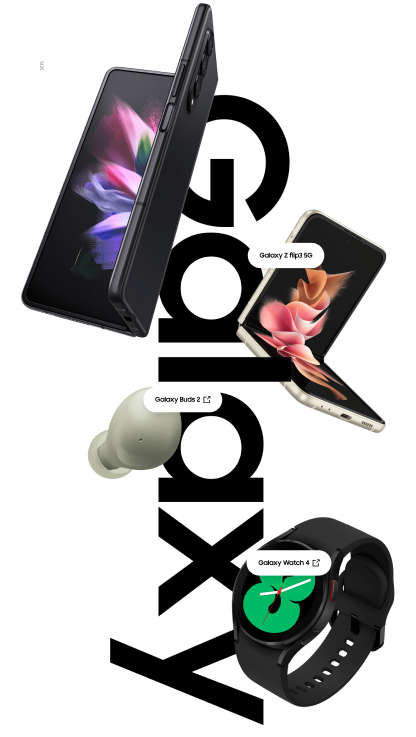
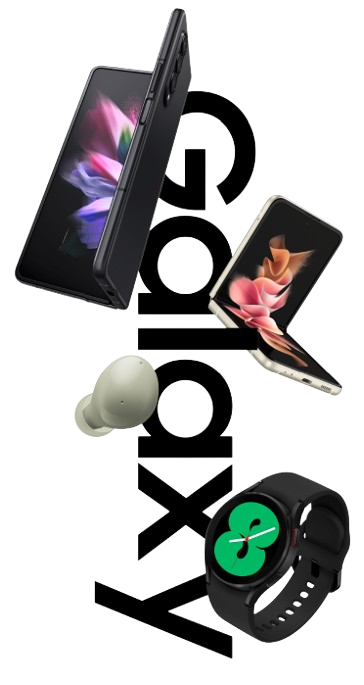
fin de la deuxieme version du projet, ajout de quelques effets grace a la fonction hover et terminer la revision initiale du code

diff --git a/index.html b/index.html
@@ -2,17 +2,17 @@
 <html lang="en">
 
 <head>
-  <meta charset="UTF-8" />
-  <meta name="viewport" content="width=device-width, initial-scale=1.0" />
+  <meta charset="UTF-8">
+  <meta name="viewport" content="width=device-width, initial-scale=1.0">
   <title>Document</title>
-  <link rel="stylesheet" href="assets/css/style.css" />
+  <link rel="stylesheet" href="assets/css/style.css">
 </head>
 <header>
   <div class="header">
-    <!-- <h1>SAMSUNG</h1> -->
+    <h1>SAMSUNG</h1>
     <section class="section-search">
-      <input class="search" type="text" placeholder="search..." />
-      <button class="button-search" type="submit">sabmit</button>
+      <input class="search" type="text" placeholder="search...">
+      <button class="button-search" type="submit">submit</button>
     </section>
   </div>
 </header>
@@ -23,7 +23,7 @@
       <a href="#home">home</a>
       <a href="#showroom">showroom</a>
       <a href="#about">about</a>
-      <a href="#contact-us">contact us</a>
+      <a href="#contact">contact us</a>
     </section>
   </div>
 
@@ -31,7 +31,7 @@
     <picture class="picture">
       <img class="img1" src="assets/images/img1.1.png" alt="Galaxy X Fond3 5G" />
       <h2 class="h2">galaxy Z Fond3 5G</h2>
-      
+
     </picture>
     <section>
       <p class="p-1">
@@ -41,24 +41,24 @@
         tactile extérieur Dynamic AMOLED 120 Hz 6.2" 904 x 2316 - 256 Go -
         Wi-Fi 6E - NFC/Bluetooth 5.2 - 4400 mAh - Android 13
       </p>
-      
 
-     
+
+
   </div>
   <section id="showroom">
     <p class="prix">7999 DH</p>
-     <div class="img2-2"><img src="assets/images/img2.2.png" alt="Galaxy Z Fond3 5G" class="img2"></div>
+    <div class="img2-2"><img src="assets/images/img2.2.png" alt="Galaxy Z Fond3 5G" class="img2"></div>
     <div class="showroom-page">
       <h2>showroom</h2>
     </div>
     <p class="p">Tant de savoir-faire réuni dans un seul appareil</p>
     <div class="img3-3">
-    
-    <img class="img3-1" src="assets/images/img3.1.png" alt="">
+      <img class="img3-1" src="assets/images/img3.1.png" alt="">
+      <img class="img3" src="assets/images/img3.png" alt="">
     </div>
     <p class="compact">Passez du compact à l'impact</p>
     <picture class="images">
-      <div class="text">
+      <div class="images-text">
         <img class="img4-1" src="assets/images/img4.1.png" alt="la casa">
 
 
@@ -87,31 +87,31 @@
     </div>
   </section>
 
-  <section class="gry">
-    <div class="line"></div>
+  <section class="about-bg">
+    <div class="div-about"></div>
     <h4 class="p1">processour</h4>
     <div>
-      <p class="pe">CPU Speed</p>
+      <p class="p-info">CPU Speed</p>
       <p class="p2">3.36GHz, 2.8GHz, 2GHz</p>
-      <p class="pe">CPU Type</p>
+      <p class="p-info">CPU type</p>
       <p class="p2">Octa-Core</p>
     </div>
     <div class="line"></div>
     <h4 class="p1">Storage/Memory</h4>
     <div>
-      <p class="pe">Memory_(GB) :</p>
+      <p class="p-info">Memory_(GB) :</p>
       <p class="p2">12</p>
-      <p class="pe">Available Storage (GB) :</p>
+      <p class="p-info">Available Storage (GB) :</p>
       <p class="p2">216.1</p>
     </div>
     <div class="line"></div>
     <h4 class="p1">Network/Bearer</h4>
     <div>
-      <p class="pe">Number of SIM :</p>
+      <p class="p-info">Number of SIM :</p>
       <p class="p2">Dual-SIM</p>
-      <p class="pe">4G TDD LTE :</p>
+      <p class="p-info">4G TDD LTE :</p>
       <p class="p2">B38(2600), B39(1900), B40(2300), B41(2500)</p>
-      <p class="pe">5G SDL Sub6 :</p>
+      <p class="p-info">5G SDL Sub6 :</p>
       <p class="p2">N75(1500+)</p>
     </div>
     <div class="line"></div>
@@ -121,6 +121,7 @@
       <img class="img7" src="assets/images/page7.png" alt="payment">
     </div>
     <div id="ACHETER" class="ACHETER">
+      <a href="#ACHETER">ACHETER</a>
       <label class="label" for="email">Email</label>
       <input id="email" class="email" type="email" placeholder="machie">
       <label class="label" for="card-info">Card information</label>
@@ -131,23 +132,24 @@
       <input id="name-card" class="name-card" type="text" placeholder="Name">
       <label class="label" for="country">Country or rigeon</label>
       <input type="text" class="country" name="" id="country">
-      <button type="submit"><a href="#ACHETER">ACHETER</a></button>
+      <button type="submit">ACHETER</button>
     </div>
   </section>
 </body>
 <footer id="contact">
-<div class="contact" >
-<h3>contact-Us</h3>
-</div>
-<div class="contact-bg">
-<label for="name-contact" class="name-contact" style="margin: 0;" >name</label>
-<input type="text" placeholder="name">
-<label for="email-contact" class="email-contact">email</label>
-<input type="email" placeholder="email">
-<label for="discr">description</label>
-<input type="text" placeholder="discription...">
-<button type="submit">submit</button>
-</div>
-<p class="copyright">Copyright© 1995-2020 Samsung. All right reserved.</p>
+  <div class="contact">
+    <h3>contact-Us</h3>
+  </div>
+  <div class="contact-bg">
+    <label for="name-contact" class="name-contact" style="margin: 0;">name</label>
+    <input type="text" placeholder="name">
+    <label for="email-contact" class="email-contact">email</label>
+    <input type="email" placeholder="email">
+    <label for="discr">description</label>
+    <input type="text" placeholder="discription...">
+    <button type="submit">submit</button>
+  </div>
+  <p class="copyright">Copyright© 1995-2020 Samsung. All right reserved.</p>
 </footer>
+
 </html>

diff --git a/assets/css/style.css b/assets/css/style.css
@@ -1,7 +1,10 @@
 body {
   padding: 0;
   margin: 0;
+  width: 100%;
 }
+
+
 .header {
   width: 100%;
   height: 100px;
@@ -15,6 +18,9 @@ body {
   text-align: center;
   margin-top: 24px;
   margin-bottom: 10px;
+}
+.section-search {
+  flex-direction: row;
 }
 .search {
   width: 75%;
@@ -43,13 +49,15 @@ body {
   font-size: 20px;
   text-shadow: 0px 0px 10px #3898ec, 0px 0px 20px #3898ec , 0px 0px 40px #3898ec ;
 }
-.section-search {
-  flex-direction: row;
-}
+
 .menu {
   width: 100%;
   height: 30px;
-  background: rgba(0, 0, 0, 0.256);
+  background: rgba(0, 0, 0, 0.418);
+  position: sticky;
+  top:0;
+  z-index: 2;
+
 }
 .sec-menu {
   display: flex;
@@ -136,6 +144,9 @@ body {
   color: red;
   text-shadow:0px 0px 10px #fff, 0px 0px 20px white, 0px 0px 40px #fff;
 }
+#showroom{
+  width: 100%;
+}
 .showroom-page {
   
   width: 100%;
@@ -153,31 +164,35 @@ body {
 }
 .showroom-page .p {
     font-size: 30px;
-}.img3{
-  position: relative;
-  right: 60px;
-    width: 40%;
+}
+.img3{
+   position: absolute;
+   right: 0px;
     object-fit: fill;
-    
-    
+   
+    width: 70%;
+
+    z-index: 0;
 }
 .img3-3{
-  display: flex;
-  justify-content: center;
+  position: relative;
+  right: 0%;
   width:100%;
-  height:1000px;
+  right:0;
+  height:800px;
   
-  background-image: url(/assets/images/img3.png);
   background-size: cover;
   background-repeat: no-repeat;
 }
 .img3-1{
   position: absolute;
-  width: 900px;
+  right: 150px;
+  
+ 
+  z-index: 1;
   /* position: absolute; */
   /* right:35%;
   top: 2200px; */
-
 }
 picture div p{
     font-size: 30px;
@@ -186,7 +201,7 @@ picture div p{
     display: flex;
     
 }
-.text{
+.images-text{
     width: 50%;
     font-size: 20px;
 
@@ -221,6 +236,10 @@ picture div p{
 .p{
     font-size: 40px;
 }
+.img{
+  display: flex;
+  justify-content: center;
+}
 .img6{
 width: 60%;
 
@@ -228,14 +247,11 @@ width: 60%;
 .p1{
     font-size: 40px;
 }
-.img{
-    display: flex;
-    justify-content: center;
-}
-.gry{ 
+
+.about-bg{ 
     background-color: gray;
 }
-.line{
+.div-about{
     width: 100%;
     height: 5px;
     background: rgba(50, 50, 195, 0.477);
@@ -246,7 +262,7 @@ h4{
     margin-top:20px;
     margin-top: 30px;
 }
-.pe{
+.p-info{
     font-size: 30px;
     margin-left: 130px;
 
@@ -283,16 +299,32 @@ h4{
   width:12%;
   display: inline;
 }
+.ACHETER a{
+  color: #000;
+  border: #000 1px solid;
+  position: fixed;
+  bottom:35px;
+  left:28%;
+  padding: 15px 200px;
+  font-size: 30px;
+  color: #fff;
+  background-color: red;
+  text-decoration: none;
+
+}
 .ACHETER button{
   width: 28%;
   height: 50px;
-  background: #000000;
+  background: #000;
   margin-top: 15px;
-}
-.ACHETER button a{
   font-size: 30px;
   color: #FFFFFF;
   text-decoration: none;
+}
+.ACHETER button:hover{
+  background: red;
+  color: white;
+  text-shadow: 0px 0px 10px white , 0px 0px 20px white, 0px 0px 40px white;
 }
 .contact{
 width: 100%;
@@ -316,10 +348,16 @@ background: rgba(0, 0, 0, 0.811);
   font-size: 30px;
   margin-top: 10px;
 }
+.contact-bg label:hover{
+font-weight: 800;
+}
 .contact-bg input{
   width:25%;
   height: 35px;
   font-size: 20px;
+}
+.contact-bg input:hover{
+  font-weight: 600;
 }
 .contact-bg button{
 
@@ -331,10 +369,16 @@ background: rgba(0, 0, 0, 0.811);
   font-size: 30px;
   color: white;
 }
+.contact-bg button:hover{
+  border: 2px #3898ec solid;
+  font-weight:600;
+  background-color: white;
+  border-radius: 20px;
+  color: #3898ec;
+}
 .copyright{
   font-size: 30px;
   margin: 0;
-
 }
 
 
